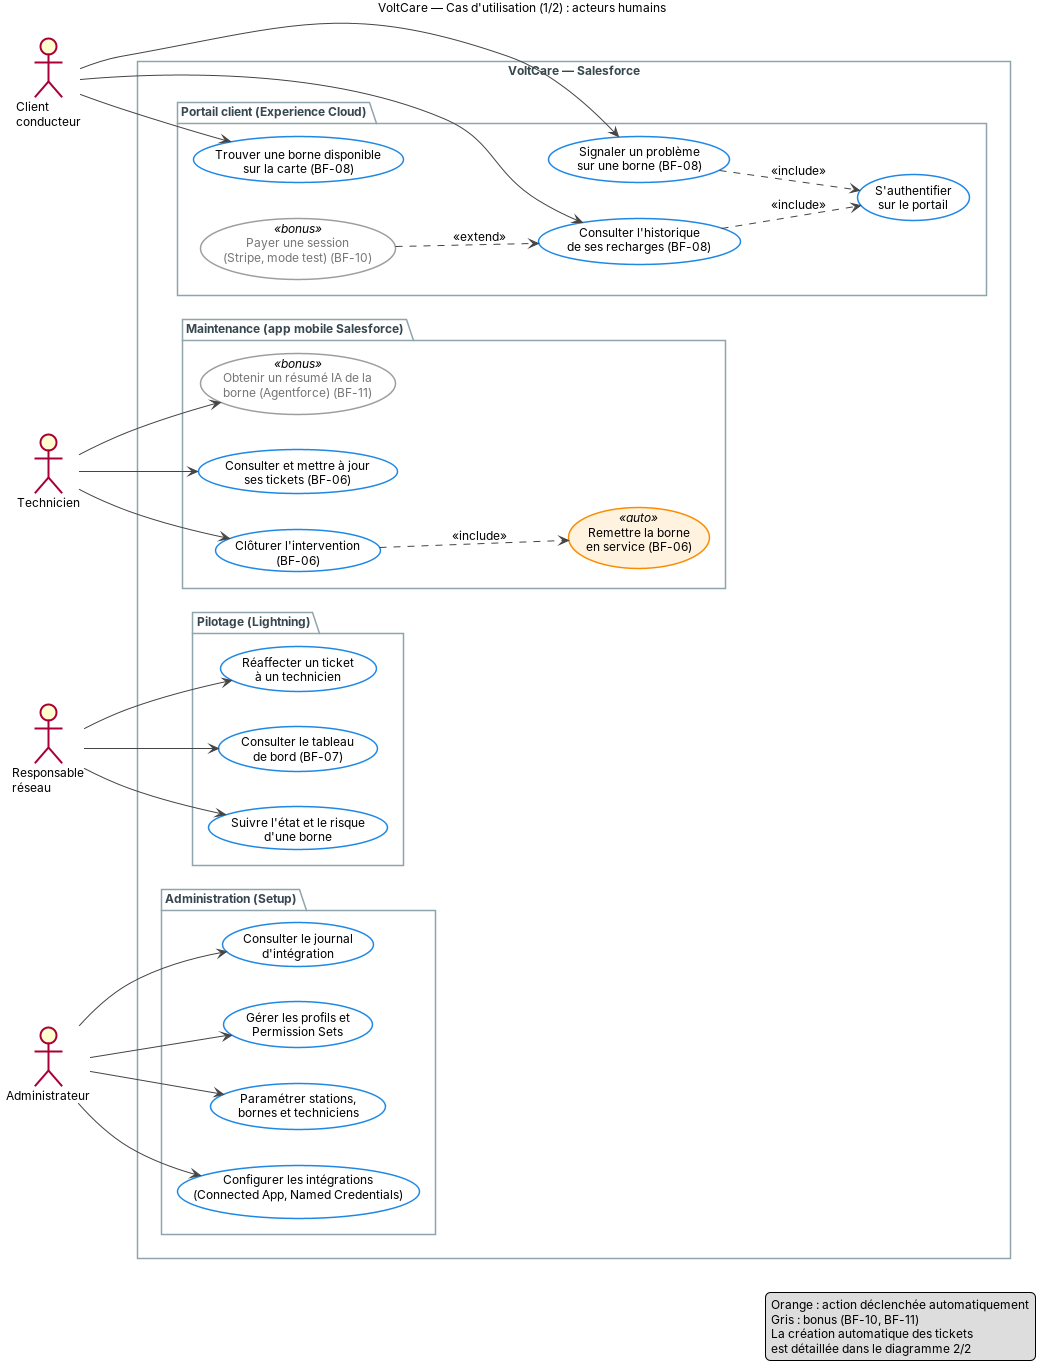
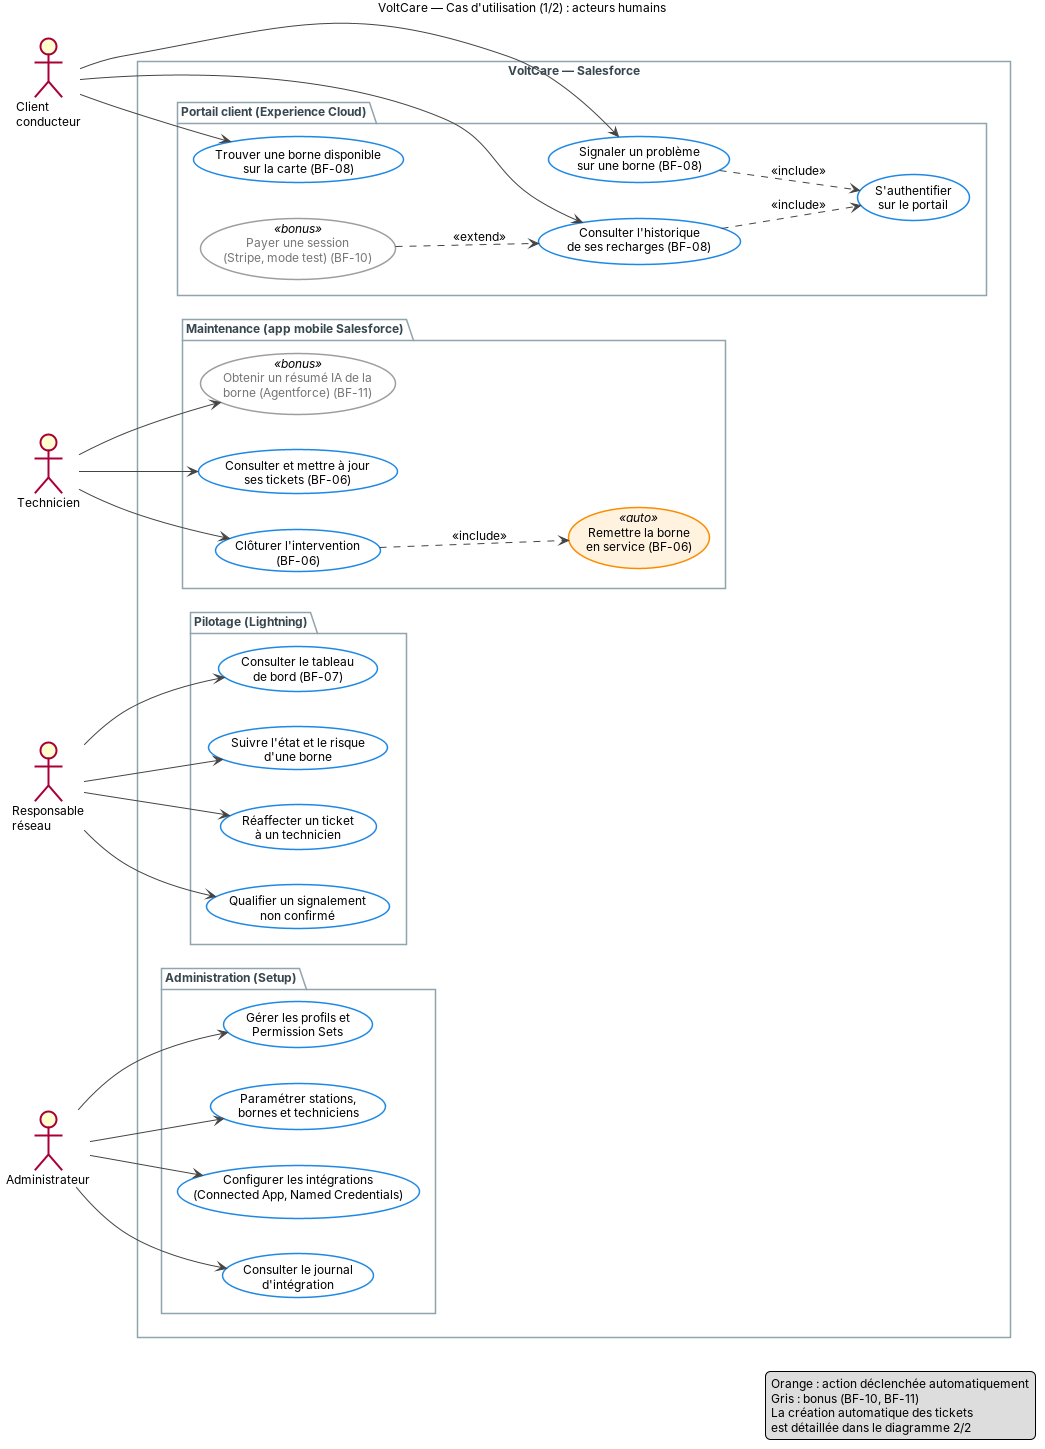
Anti-abus des signalements : tri automatique, statut À qualifier, résolution (#12)

diff --git a/docs/conception/dictionnaire-donnees.md b/docs/conception/dictionnaire-donnees.md
@@ -2,7 +2,7 @@
 
 | | |
 |---|---|
-| **Version** | 1.2 |
+| **Version** | 1.3 |
 | **Sprint** | S2 — Conception |
 | **Diagramme** | `modele-donnees.puml` / `modele-donnees.png` |
 | **Contrats liés** | `contrat-mqtt.md`, `contrat-platform-event.md`, `contrat-api-ia.md` (v1.0) |
@@ -121,9 +121,9 @@ Colonne **Rempli par** : *Trigger* = trigger Apex sur `Borne_Event__e` · *IA* =
 |---|---|
 | `Type` | **Panne** (borne `Faulted`) · **Maintenance préventive** (score > 70) · **Signalement** (portail client) |
 | `Origin` | **Borne** · **Prédiction IA** · **Portail client** |
-| `Status` | Nouveau → En cours → Clôturé |
-| `Priority` | Haute (panne), Moyenne (préventive, signalement) |
-| `OwnerId` | Le technicien du secteur (`Station__c.Technicien__c`) |
+| `Status` | **À qualifier** (signalement non confirmé) → Nouveau → En cours → Clôturé |
+| `Priority` | Haute (panne), Moyenne (préventive, signalement crédible), Basse (signalement à qualifier) |
+| `OwnerId` | Le technicien du secteur (`Station__c.Technicien__c`), ou la file d'attente **« Qualification des signalements »** (responsable) pour un ticket À qualifier |
 | `ContactId` | Le client, pour un signalement |
 | `Subject` / `Description` | Générés automatiquement ou saisis par le client |
 
@@ -137,9 +137,16 @@ Colonne **Rempli par** : *Trigger* = trigger Apex sur `Borne_Event__e` · *IA* =
 | `Type_Probleme_Client__c` | Type de problème | Picklist : La recharge ne démarre pas, La recharge s'est arrêtée, Câble ou prise endommagé, Écran ou badge, Autre | | Portail | |
 | `Duree_Reparation_Heures__c` | Délai de réparation (h) | Formule Number : `(ClosedDate − CreatedDate) × 24` | | Système | Indicateur du tableau de bord (BF-07) |
 | `Notifier_Client__c` | Prévenir le client par email | Checkbox, faux par défaut | | Portail | Case « Me prévenir par email de l'avancement » du formulaire de signalement |
+| `Resolution__c` | Résolution | Picklist : Réparé, Non reproduit, Doublon | ✔ à la clôture | Technicien / responsable | Obligatoire pour clôturer (règle de validation). « Non reproduit » sur un signalement compte comme signalement non fondé |
 
 **Règles**
-- **Affectation** : un Flow avant enregistrement, commun aux 3 origines, renseigne `OwnerId = Borne__r.Station__r.Technicien__c`.
+- **Affectation** : un Flow avant enregistrement, commun aux 3 origines, renseigne `OwnerId = Borne__r.Station__r.Technicien__c` quand le ticket est créé au statut Nouveau **ou** passe de « À qualifier » à « Nouveau ». Un ticket « À qualifier » va dans la file « Qualification des signalements ».
+- **Tri d'un signalement** (contrôleur `SignalementController`) :
+  1. La borne a déjà un ticket ouvert → pas de nouveau ticket : le signalement est ajouté en commentaire au ticket existant.
+  2. Limites : 3 signalements maximum par client sur 24 h, un seul signalement ouvert par client et par borne → sinon refus avec un message.
+  3. Le signalement est **crédible** si le client a une session sur cette borne dans les 24 dernières heures, **ou** si la borne a un code d'erreur autre que `NoError` depuis moins de 24 h, **ou** si elle est injoignable, **ou** si son niveau de risque est Moyen ou Élevé — **et** si le client n'est pas signalé comme peu fiable.
+  4. Crédible → statut **Nouveau**, priorité Moyenne, circuit normal. Sinon → statut **À qualifier**, priorité Basse, file du responsable, sans alerte au technicien.
+- **Signalement non fondé** : à la clôture d'un signalement avec la résolution « Non reproduit », `Contact.Nb_Signalements_Non_Fondes__c` augmente de 1.
 - **Clôture** : à la clôture d'un ticket de type Panne, la borne repasse **Disponible** et `Date_Dernier_Statut__c` reçoit l'heure de clôture (BF-06).
 
 ---
@@ -149,7 +156,9 @@ Colonne **Rempli par** : *Trigger* = trigger Apex sur `Borne_Event__e` · *IA* =
 | Champ API | Libellé | Type | Oblig. | Rempli par | Description |
 |---|---|---|:-:|---|---|
 | `AccountId` | Compte | Lookup(Account) | ✔ | Saisie | Toujours le compte « Clients VoltCare » |
-| `Badge_RFID__c` | Badge RFID | Text(20) · **External ID, unique** | | Saisie | Ex. `CLI-0042` — relie les sessions au client |
+| `Badge_RFID__c` | Badge RFID | Text(20) · **External ID, unique** | | Saisie (page « Mon compte ») | Ex. `CLI-0042` — relie les sessions au client |
+| `Nb_Signalements_Non_Fondes__c` | Signalements non fondés | Number(3,0), 0 par défaut | | Flow | Signalements clôturés avec la résolution « Non reproduit » |
+| `Client_A_Verifier__c` | Client à vérifier | Formule Checkbox : `Nb_Signalements_Non_Fondes__c >= 3` | | Système | Si vrai, tous ses signalements passent « À qualifier » |
 
 ---
 
@@ -189,7 +198,7 @@ Publié par le trigger du `Case` à la création d'un ticket (et à sa réaffect
 | Champ API | Libellé | Type | Oblig. | Description |
 |---|---|---|:-:|---|
 | `Case_Id__c` | Ticket | Text(18) | ✔ | Id du `Case` à notifier |
-| `Type_Notification__c` | Type | Text(20) | ✔ | `CREATION` ou `REAFFECTATION` |
+| `Type_Notification__c` | Type | Text(20) | ✔ | `CREATION`, `REAFFECTATION` ou `QUALIFICATION` (alerte au responsable seulement) |
 
 ---
 
@@ -217,3 +226,4 @@ Chaque enregistrement compte pour environ 2 Ko.
 | 1.0 | 10/11/2026 | Premier jet, décisions validées en équipe |
 | 1.1 | 10/11/2026 | Ajout de `Case.Notifier_Client__c` et des règles d'affectation et de clôture (issus des diagrammes de séquence) |
 | 1.2 | 10/11/2026 | Ajout du Platform Event `Notification_Ticket__e` (décision sécurité) |
+| 1.3 | 10/11/2026 | Anti-abus des signalements : statut « À qualifier », `Case.Resolution__c`, compteur de signalements non fondés sur le Contact, file de qualification |

diff --git a/docs/conception/securite.md b/docs/conception/securite.md
@@ -2,7 +2,7 @@
 
 | | |
 |---|---|
-| **Version** | 1.0 — validée par l'équipe |
+| **Version** | 1.1 |
 | **Sprint** | S2 — Conception |
 | **Exigence** | Besoins non fonctionnels — Sécurité : profils et Permission Sets par acteur, Named Credentials, aucun secret dans le code, OAuth 2.0 pour la passerelle |
 | **Documents liés** | `dictionnaire-donnees.md` v1.1, contrats v1.0, diagrammes de séquence |
@@ -141,6 +141,12 @@ Avec les Named Credentials récents, **l'utilisateur qui exécute l'appel** doit
   - Prérequis : **Setup → Deliverability → All email**, sinon le code de vérification n'est pas envoyé.
   - Seule la page d'inscription est accessible sans connexion (utilisateur *guest*).
 - **Badge RFID** : un nouveau client saisit son numéro de badge sur une page « Mon compte » du portail, qui renseigne `Contact.Badge_RFID__c`. Tant qu'il ne l'a pas fait, ses recharges ne lui sont pas rattachées.
+- **Anti-abus des signalements** (détail dans le dictionnaire v1.3, §6) :
+  - chaque signalement est confronté à l'état réel de la borne : un signalement que rien ne confirme passe au statut **« À qualifier »** et va au responsable, sans déplacer de technicien ;
+  - 3 signalements maximum par client sur 24 h, un seul ouvert par client et par borne ;
+  - au-delà de 3 signalements « Non reproduit », le client est marqué **à vérifier** et ses signalements passent tous par le responsable, qui peut aussi désactiver le compte ;
+  - le message affiché au client ne révèle pas le résultat du tri (« Merci, votre signalement a été enregistré »).
+- **File d'attente « Qualification des signalements »** : le responsable en est le seul membre.
 - Le contrôleur de signalement vérifie que la borne choisie existe et renseigne lui-même `ContactId` à partir de l'utilisateur connecté : un client ne peut pas créer un ticket au nom d'un autre.
 
 ---
@@ -163,3 +169,4 @@ Avec les Named Credentials récents, **l'utilisateur qui exécute l'appel** doit
 | Version | Date | Modification |
 |---|---|---|
 | 1.0 | 10/11/2026 | Premier jet, décisions validées : connexion obligatoire avec inscription libre, contrôleur filtré, `Notification_Ticket__e` |
+| 1.1 | 10/11/2026 | Anti-abus des signalements |
